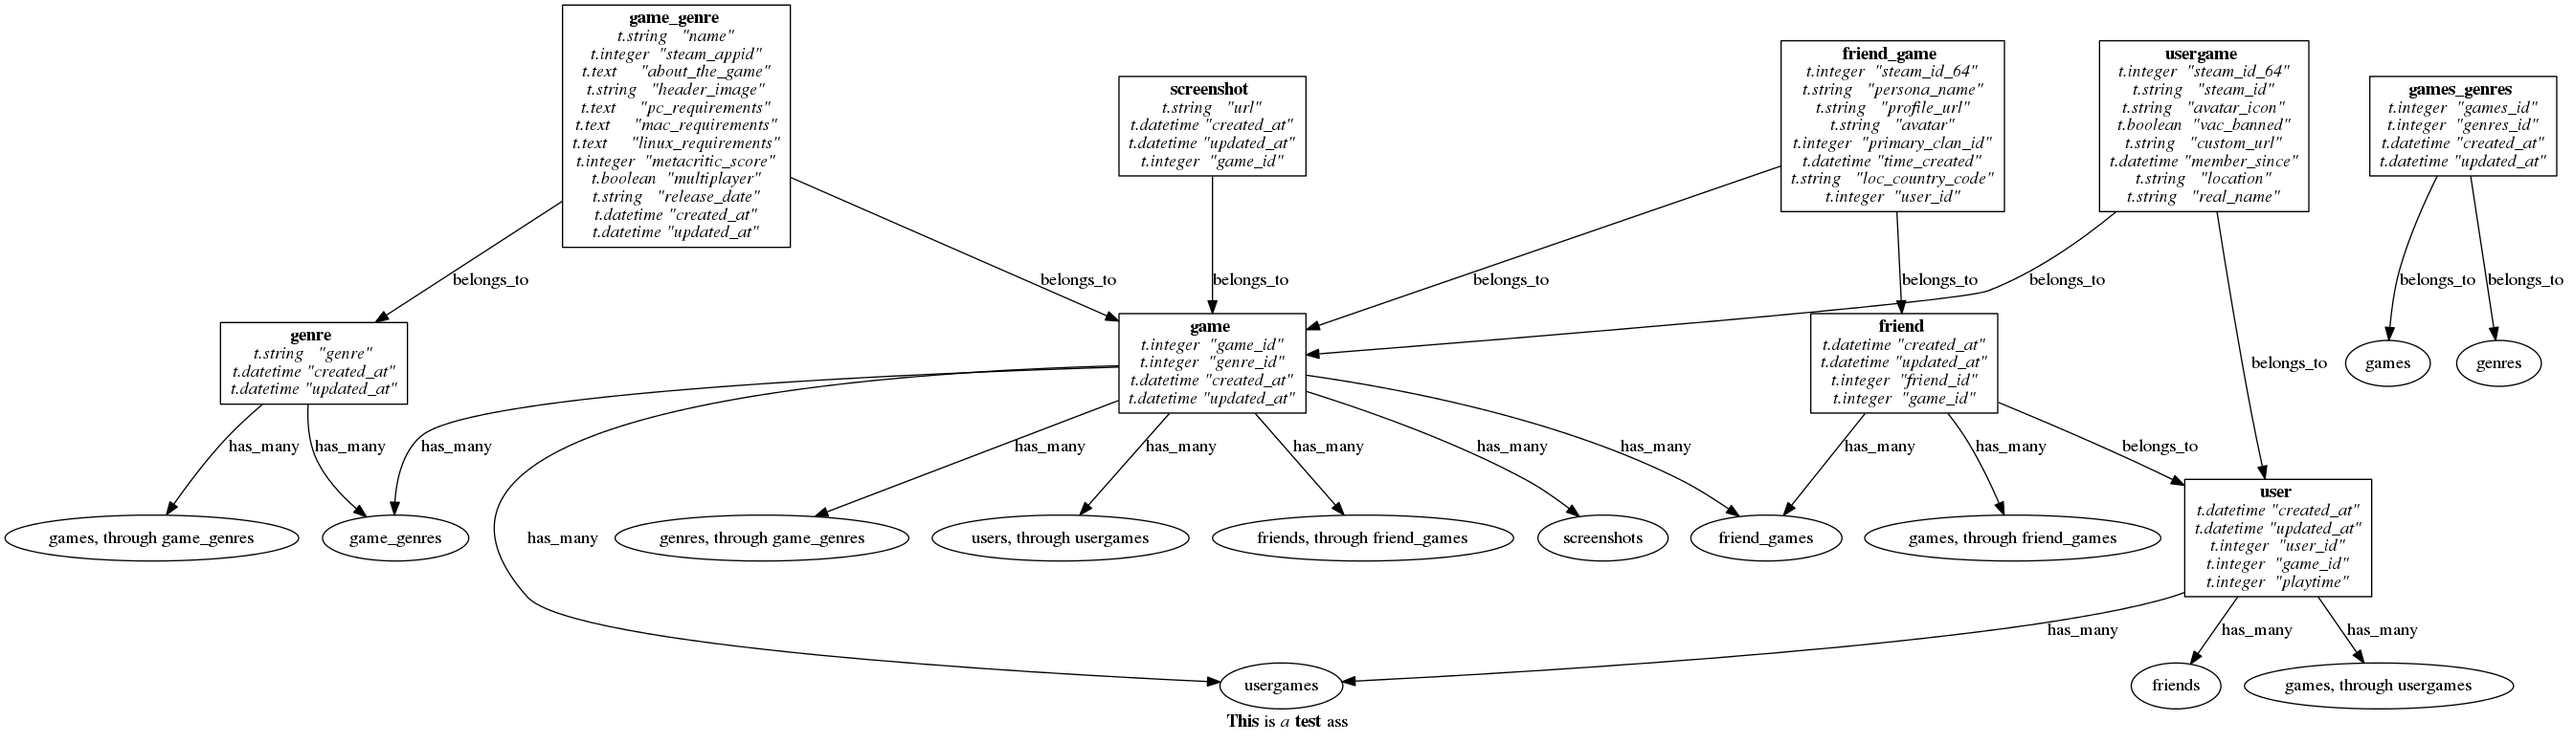
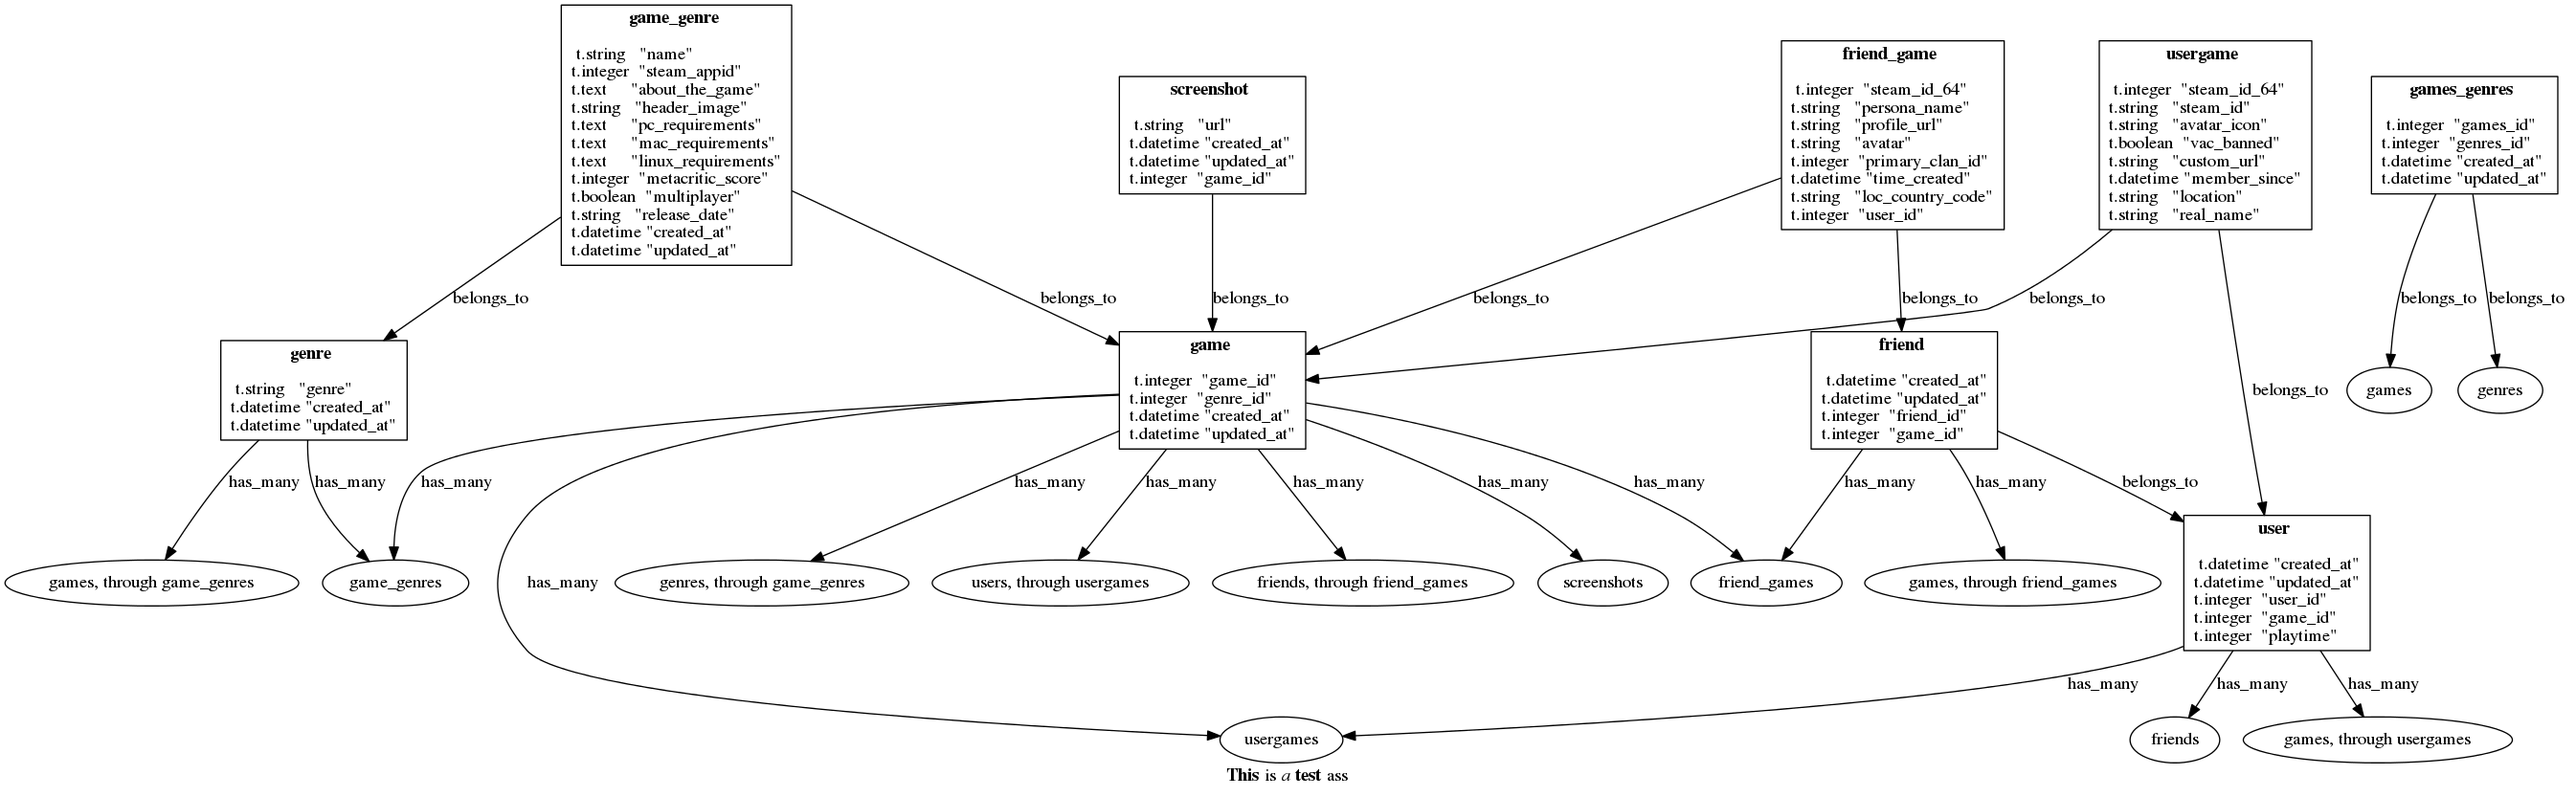
more text formating

diff --git a/app/controllers/scrapers_controller.rb b/app/controllers/scrapers_controller.rb
@@ -79,7 +79,7 @@ class ScrapersController < ApplicationController
       table_data = table_data[1...-1]
       table_data_str = ""
       table_data.each do |d|
-        table_data_str += d.to_s + '<br/>'
+        table_data_str += d.to_s + '<BR ALIGN="LEFT"/>'
       end
       @all_table_data_strs.push(table_data_str)
       @all_table_data.push(table_data)
@@ -97,7 +97,7 @@ class ScrapersController < ApplicationController
       model_and_attrs = "#{m}" + '<br/>' + "#{@all_table_data_strs[i]}"
       models_and_attrs.push(model_and_attrs)
       node = g.add_nodes(m)
-      node[:label] = '<<b>' + "#{m}" + '</b> <br/>' + "<i>#{@all_table_data_strs[i]}</i>" + '>'
+      node[:label] = '<<b>' + "#{m}" + '</b> <br/><br/>' + " #{@all_table_data_strs[i]}" + '>'
       node[:shape => 'regular']
       node[:size => 0.20]
       nodes.push(node)
